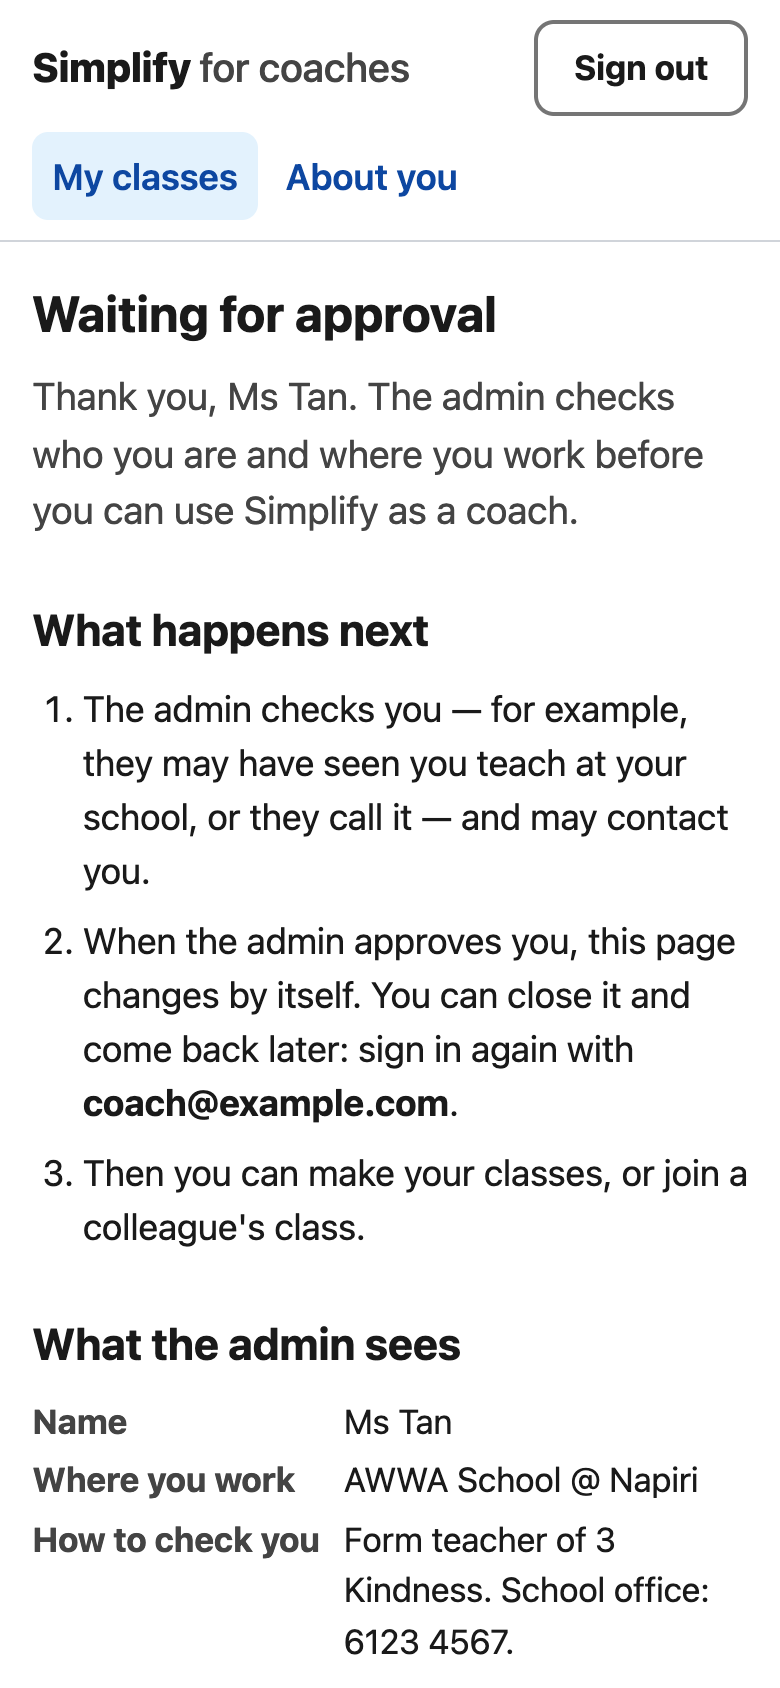
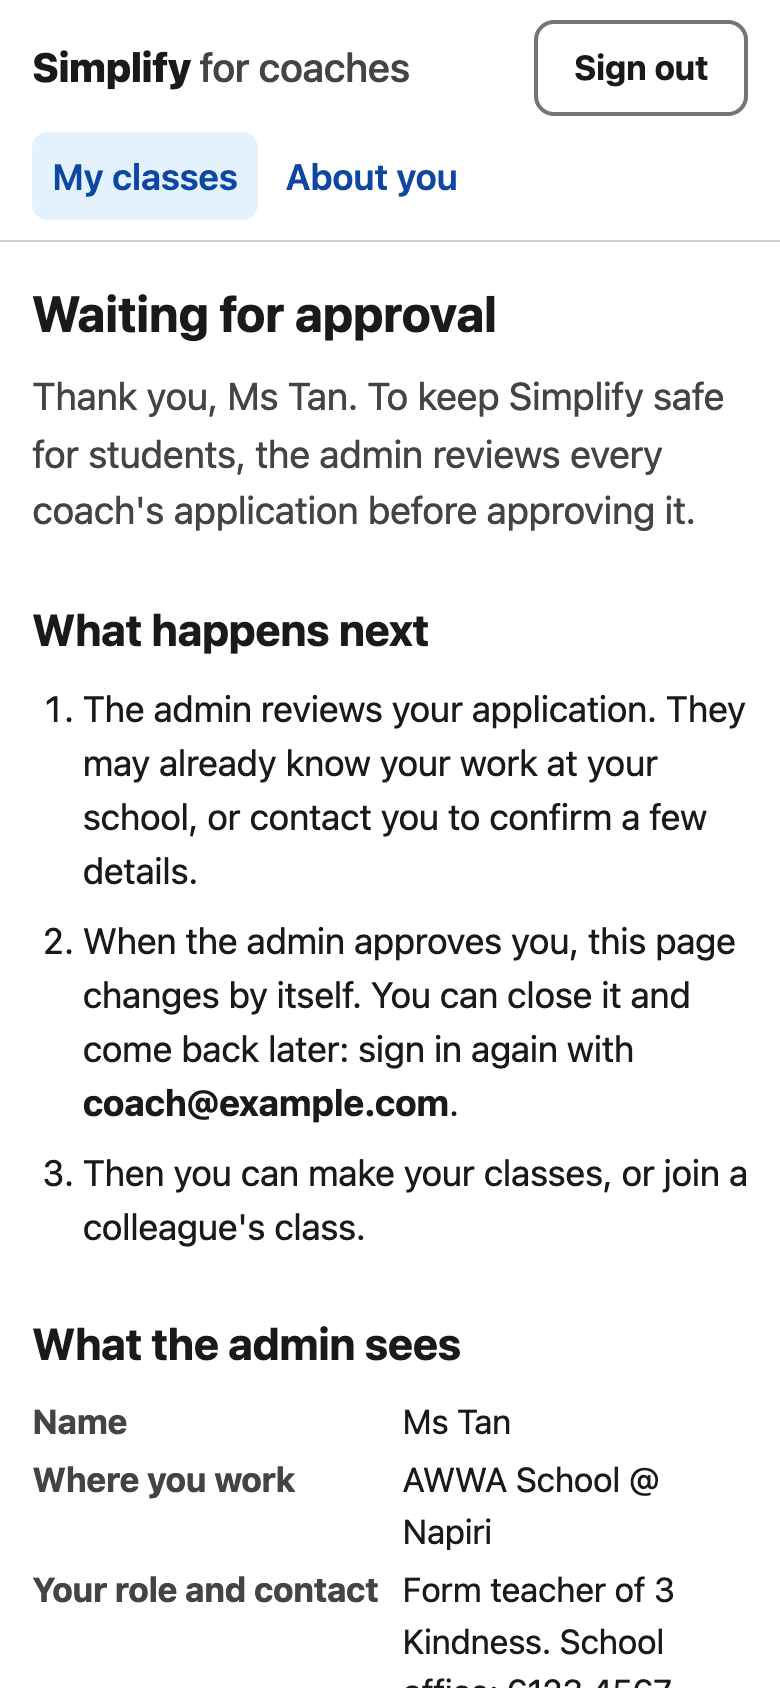
fix: the admin reviews applications to keep students safe — not "checks you"
"The admin checks you" read as distrust. Coach-facing words now say the
admin reviews every coach's application before approving it, to keep
Simplify safe for students:
- Waiting for approval: the lead, step 1, and "Your role and contact"
  in place of "How to check you".
- About you: "Your role, and how the admin can reach you".
- Joining a class: the admin reviews each request to join.
- Not approved, and the callables' messages: "Your application …".
- The coach guide, its two screenshots, the coach video's line, and the
  docs that quote these words.

diff --git a/public/coach/guide.html b/public/coach/guide.html
@@ -141,8 +141,8 @@
 
       <h3>About you</h3>
       <p>The first time you sign in, fill in <strong>About you</strong>:
-        your name, where you work, and how the admin can check who you are
-        (your role, and a work email or phone number).</p>
+        your name, where you work, and your role, with a work email or phone
+        number the admin can reach you on.</p>
       <p>Under <strong>Where you work</strong>, tick each place where you
         coach, for example <em>AWWA School @ Napiri</em> — up to 10. The
         places you ticked show above the list; tap one to take it off. If
@@ -154,21 +154,22 @@
         asked where you work? About you opens first, once: tick your places
         and save.</p>
       <figure>
-        <a href="/coach/img/guide/about-you.png"><img src="/coach/img/guide/about-you.png" width="720" height="1172" loading="lazy"
-          alt="About you: Your name; Where you work, a list of AWWA places with AWWA School @ Napiri ticked and shown above the list; Not in the list? Type the name of your school or centre; How can the admin check who you are; Save and continue."></a>
+        <a href="/coach/img/guide/about-you.png"><img src="/coach/img/guide/about-you.png" width="720" height="1176" loading="lazy"
+          alt="About you: Your name; Where you work, a list of AWWA places with AWWA School @ Napiri ticked and shown above the list; Not in the list? Type the name of your school or centre; Your role, and how the admin can reach you; Save and continue."></a>
         <figcaption>About you: who you are and where you work</figcaption>
       </figure>
 
       <h3>Wait for the admin</h3>
-      <p>Before you can make a class, write a page or add a picture, the
-        admin checks who you are and where you work — for example, they may
-        have seen you teach at your school, or they call it. Until then you see <strong>Waiting for
+      <p>To keep Simplify safe for students, the admin reviews every coach's
+        application before approving it. They may already know your work at
+        your school, or contact you to confirm a few details. Until then you
+        can't make a class, write a page or add a picture, and you see <strong>Waiting for
         approval</strong>. You can close the page: when the admin approves
         you, it changes to <strong>My classes</strong> by itself, or the next
         time you sign in.</p>
       <figure class="phone">
         <img src="/coach/img/guide/waiting.png" width="780" height="1688" loading="lazy"
-          alt="Waiting for approval on a phone: what happens next, in three steps, and what the admin sees — name, where you work, how to check you — with Change About you.">
+          alt="Waiting for approval on a phone: what happens next, in three steps, and what the admin sees — name, where you work, your role and contact — with Change About you.">
         <figcaption>Waiting for approval</figcaption>
       </figure>
       <ul>

diff --git a/public/coach/js/screen-waiting.js b/public/coach/js/screen-waiting.js
@@ -15,7 +15,7 @@ function whatTheAdminSees(root, ctx) {
     h("dl", { class: "facts facts-wide" },
       h("dt", null, "Name"), h("dd", null, profile.name),
       h("dt", null, "Where you work"), places,
-      h("dt", null, "How to check you"), h("dd", null, profile.note || "Nothing yet")),
+      h("dt", null, "Your role and contact"), h("dd", null, profile.note || "Nothing yet")),
     h("div", { class: "actions" }, h("a", { class: "btn btn-secondary", href: "#about" }, "Change About you")));
   root.append(box);
   const show = (list) => places.replaceChildren(h("ul", { class: "plain-list" }, workPlaces(profile, list).map((n) => h("li", null, n))));
@@ -26,11 +26,11 @@ export function waitingScreen(root, ctx) {
   const { user, profile } = ctx;
   const screen = h("section", { class: "screen waiting" },
     h("h1", null, "Waiting for approval"),
-    h("p", { class: "lead" }, `Thank you, ${profile.name}. The admin checks who you are and where you work before you can use Simplify as a coach.`),
+    h("p", { class: "lead" }, `Thank you, ${profile.name}. To keep Simplify safe for students, the admin reviews every coach's application before approving it.`),
     h("section", { class: "section", "aria-labelledby": "next-h" },
       h("h2", { id: "next-h" }, "What happens next"),
       h("ol", { class: "next-steps" },
-        h("li", null, "The admin checks you — for example, they may have seen you teach at your school, or they call it — and may contact you."),
+        h("li", null, "The admin reviews your application. They may already know your work at your school, or contact you to confirm a few details."),
         h("li", null, "When the admin approves you, this page changes by itself. You can close it and come back later: sign in again with ",
           h("strong", null, user.email), "."),
         h("li", null, "Then you can make your classes, or join a colleague's class."))));
@@ -58,7 +58,7 @@ export function declinedScreen(root, ctx) {
     h("h1", null, "Not approved"),
     message
       ? notice(`The admin says: “${message}”`, { tone: "warning" })
-      : notice("The admin has not approved you as a coach. If you think this is a mistake, contact the admin.", { tone: "warning" }),
+      : notice("Your application was not approved this time. If you think something was missed, please contact the admin.", { tone: "warning" }),
     h("p", null, "If something in About you was missing or wrong, change it, then ask the admin again."),
     problem,
     h("div", { class: "actions" }, again));

diff --git a/public/coach/js/screen-profile.js b/public/coach/js/screen-profile.js
@@ -1,7 +1,7 @@
 // About you: the name, where the coach works (one or more institutions from
 // the admin's list, and/or a school or centre not in the list yet, in their
-// own words — the admin adds it) and a note that let the admin check a coach
-// is who they say, before approving them. Only the coach and the admin see it
+// own words — the admin adds it) and the coach's role and contact, which the
+// admin reviews with the rest before approving them. Only the coach and the admin see it
 // (firestore.rules, coaches/{uid}). The sign-in email is kept with it, and
 // can't be changed here. A new profile waits for the admin's approval.
 
@@ -17,8 +17,8 @@ export function profileScreen(root, ctx, { isNew }) {
 
   const name = field({ label: "Your name", maxLength: 60, autocomplete: "name", value: saved.name ?? user.name ?? "" });
   const note = field({
-    label: "How can the admin check who you are?", multiline: true, rows: 4, maxLength: 300, value: saved.note ?? "",
-    hint: "For example: your role, and a work email or phone number the admin can check.",
+    label: "Your role, and how the admin can reach you", multiline: true, rows: 4, maxLength: 300, value: saved.note ?? "",
+    hint: "For example: form teacher, and a work email or phone number.",
   });
   const where = h("div", null, h("p", { class: "loading", role: "status" }, "Loading the institutions…"));
   const other = field({
@@ -78,7 +78,7 @@ export function profileScreen(root, ctx, { isNew }) {
   });
 
   const lead = isNew
-    ? "The admin checks this before you can use Simplify. Only you and the admin see it."
+    ? "To keep Simplify safe for students, the admin reviews every coach's application before approving it. Only you and the admin see this."
     : gate === "about"
       ? "Simplify now asks where you work. Only you and the admin see this."
       : "Only you and the admin see this.";

diff --git a/public/coach/js/screen-classes.js b/public/coach/js/screen-classes.js
@@ -116,7 +116,7 @@ export function classesScreen(root, ctx) {
   const joinSend = h("button", { class: "btn btn-primary", type: "submit" }, "Send to the admin");
   const joinProblem = h("div");
   const joinForm = h("form", { class: "stack", novalidate: true },
-    h("p", { class: "field-hint" }, "The admin checks you really coach that class, then adds you to it."),
+    h("p", { class: "field-hint" }, "To keep classes safe for students, the admin reviews each request to join, then adds you to the class."),
     joinCode.field, joinEcho, joinNote.field, joinProblem,
     h("div", { class: "actions" }, joinSend));
   // the code is forgiven as it is typed: case, dashes and spaces don't matter

diff --git a/functions/lib.js b/functions/lib.js
@@ -58,8 +58,8 @@ export async function requireClassCoach(request, rawCode) {
   if (coach.get("suspended") === true) fail("permission-denied", "Your account is paused. Ask the admin.");
   if (coach.get("status") !== "approved") {
     fail("permission-denied", coach.get("status") === "declined"
-      ? "The admin has not approved you as a coach. Contact the admin."
-      : "The admin has not approved you yet.");
+      ? "Your application was not approved. Please contact the admin."
+      : "Your application is waiting for the admin's approval.");
   }
   const uids = members.get("uids");
   if (!klass.exists || !Array.isArray(uids) || !uids.includes(uid)) {

diff --git a/functions/class-markdown.js b/functions/class-markdown.js
@@ -408,7 +408,8 @@ export function plainText(inline) {
 // ---------- addresses ----------
 
 // An https address a button may open, as a URL, or null: no other scheme,
-// and no user name or password in it (https://bank.example@evil.example).
+// and no user name or password in it (a "bank.example" name placed before
+// an @, so the link looks like the bank but opens evil.example).
 function httpsUrl(target) {
   if (typeof target !== "string" || !target || target.length > MAX_URL) return null;
   let url;

diff --git a/public/js/class-markdown.js b/public/js/class-markdown.js
@@ -408,7 +408,8 @@ export function plainText(inline) {
 // ---------- addresses ----------
 
 // An https address a button may open, as a URL, or null: no other scheme,
-// and no user name or password in it (https://bank.example@evil.example).
+// and no user name or password in it (a "bank.example" name placed before
+// an @, so the link looks like the bank but opens evil.example).
 function httpsUrl(target) {
   if (typeof target !== "string" || !target || target.length > MAX_URL) return null;
   let url;

diff --git a/docs/coach/coach-app.md b/docs/coach/coach-app.md
@@ -51,7 +51,7 @@ The profile is **watched live** (`cloud.watchProfile`, an `onSnapshot` of `coach
 
 ## About you
 
-`coaches/{uid}`: **name** (required, 60 characters), **Where you work** — up to ten institutions from the admin's list (`institutions/{id}`, see [admin and approvals](/coach/admin-and-approvals.md#institutions)) — **Not in the list? Type the name of your school or centre** (`otherPlace`, 120 characters, spaces tidied; hint "The admin adds it to the list.") and "How can the admin check who you are?" (300), plus the sign-in email, which cannot be changed here. Only the coach and admins can read it. Save waits for a name and a place: at least one institution, or a place typed.
+`coaches/{uid}`: **name** (required, 60 characters), **Where you work** — up to ten institutions from the admin's list (`institutions/{id}`, see [admin and approvals](/coach/admin-and-approvals.md#institutions)) — **Not in the list? Type the name of your school or centre** (`otherPlace`, 120 characters, spaces tidied; hint "The admin adds it to the list.") and "Your role, and how the admin can reach you" (300), plus the sign-in email, which cannot be changed here. Only the coach and admins can read it. Save waits for a name and a place: at least one institution, or a place typed.
 
 - **The picker** (`public/coach/js/institution-picker.js`, pure parts in `institutions.js`): the active institutions grouped by organisation A–Z, each place a 56 px checkbox row with its area and type under the name; the chosen ones show above as chips that take themselves off with a tap. Only a list of more than 8 places (`SEARCH_FROM`) gets a search box — every word typed must appear in the name, organisation, area or type, ignoring case and accents — and a box that scrolls on its own. At 10 chosen the other boxes are disabled ("Take one off to choose another"). A retired institution stays shown while it is chosen, marked "(retired)", so it can be taken off; the rules do not check that an id exists, only its shape.
 - **A first save** writes the profile with `status: "pending"` and `createdAt`, and goes on to Waiting for approval. The rules require that shape and the stored email to equal the token's email.
@@ -61,9 +61,9 @@ The profile is **watched live** (`cloud.watchProfile`, an `onSnapshot` of `coach
 
 ## Waiting for approval
 
-`public/coach/js/screen-waiting.js`. Until an admin approves them, a coach can do nothing but read and change their own profile: the rules refuse every class, page, picture, request and upload, and every callable refuses with "The admin has not approved you yet." The screen is calm and says what happens next: the admin checks them — "for example, they may have seen you teach at your school, or they call it" — and may contact them; the page changes by itself when they are approved (they can close it and sign in again later with the same email); then they can make classes or join a colleague's. Below, **What the admin sees** (name, where they work — a typed place marked "(not in the list yet)" — how to check them) and **Change About you**.
+`public/coach/js/screen-waiting.js`. Until an admin approves them, a coach can do nothing but read and change their own profile: the rules refuse every class, page, picture, request and upload, and every callable refuses with "Your application is waiting for the admin's approval." The screen is calm: it says the admin reviews every coach's application before approving it, to keep Simplify safe for students, and what happens next — the admin reviews the application ("They may already know your work at your school, or contact you to confirm a few details."); the page changes by itself when they are approved (they can close it and sign in again later with the same email); then they can make classes or join a colleague's. Below, **What the admin sees** (name, where they work — a typed place marked "(not in the list yet)" — their role and contact) and **Change About you**.
 
-A declined coach sees **Not approved**: the admin's message if they wrote one ("The admin says: “Please add a work email I can check.”", from `decisionMessage`), otherwise "The admin has not approved you as a coach. If you think this is a mistake, contact the admin."; then "If something in About you was missing or wrong, change it, then ask the admin again.", **Ask the admin again** (`cloud.askAgain`: `status` back to `pending` with `reappliedAt`; the watched profile turns the screen into Waiting for approval, and the admin sees "Asked again") and the same summary and link. An admin can also approve them later; nothing is deleted.
+A declined coach sees **Not approved**: the admin's message if they wrote one ("The admin says: “Please add a work email I can check.”", from `decisionMessage`), otherwise "Your application was not approved this time. If you think something was missed, please contact the admin."; then "If something in About you was missing or wrong, change it, then ask the admin again.", **Ask the admin again** (`cloud.askAgain`: `status` back to `pending` with `reappliedAt`; the watched profile turns the screen into Waiting for approval, and the admin sees "Asked again") and the same summary and link. An admin can also approve them later; nothing is deleted.
 
 ## My classes
 

diff --git a/docs/platform/security.md b/docs/platform/security.md
@@ -167,7 +167,7 @@ The six callables in `functions/index.js` run in `asia-southeast1` as `simplify-
 
 1. the call carries a signed-in uid (`unauthenticated`);
 2. the class code, normalised, is 9 characters (`invalid-argument`);
-3. `coaches/{uid}` exists ("Fill in About you first."), is not suspended ("Your account is paused. Ask the admin.") and is approved ("The admin has not approved you yet." — or, when declined, "The admin has not approved you as a coach. Contact the admin."), and the class exists and `classCoaches/{code}.uids` includes the uid (`permission-denied`);
+3. `coaches/{uid}` exists ("Fill in About you first."), is not suspended ("Your account is paused. Ask the admin.") and is approved ("Your application is waiting for the admin's approval." — or, when declined, "Your application was not approved. Please contact the admin."), and the class exists and `classCoaches/{code}.uids` includes the uid (`permission-denied`);
 4. the class's `status` is `active` (`failed-precondition`).
 
 Then each checks its own input before calling a model or touching Storage:

diff --git a/docs/coach/ai-helper.md b/docs/coach/ai-helper.md
@@ -79,7 +79,7 @@ what was asked.
 `writePageHandler` in `functions/index.js`, in order:
 
 1. **The caller** — `requireClassCoach`: signed in, has a coach profile, not suspended, approved by the admin, listed
-   in `classCoaches/{code}`, class active. Otherwise a plain refusal ("The admin has not approved you yet.", "You are
+   in `classCoaches/{code}`, class active. Otherwise a plain refusal ("Your application is waiting for the admin's approval.", "You are
    not a coach of this class.", "This class is paused by the admin.").
 2. **The input** — lengths above; answers cleaned (never refused).
 3. **Too short to act on** — fewer than 4 letters or digits across the instruction and answers: a free **ask**
